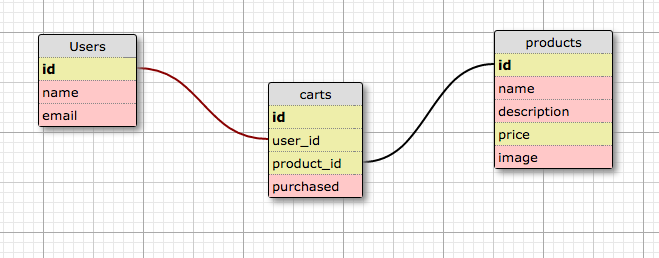
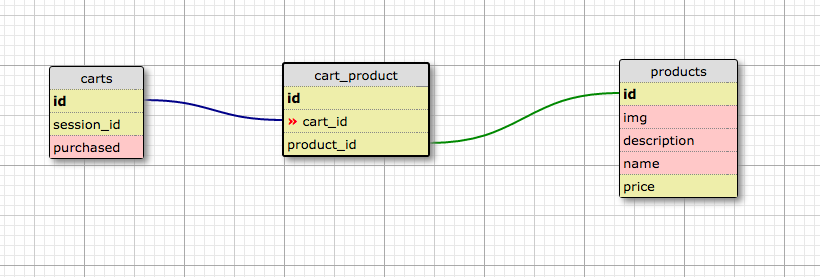
Remove user model in schema and replace image

diff --git a/README.md b/README.md
@@ -2,18 +2,6 @@
 
 # User Stories
 
-*Users can...*
-
-1. login
-
-2. look at products
-
-3. add products to their cart
-
-4. edit their cart
-
-5. does not need authentication...?
-
 *Products can...*
 
 1. have a placeholder image, name, description, and price
@@ -28,10 +16,10 @@
 
 *Carts have...*
 
-1. a user and hold products
+1. a session id and hold products
 
 2. can be purchased
 
 Schema design
 
-![schema design](/public/imgs/shop_schema.png)
+![schema design](./public/imgs/shop_schema.png)
